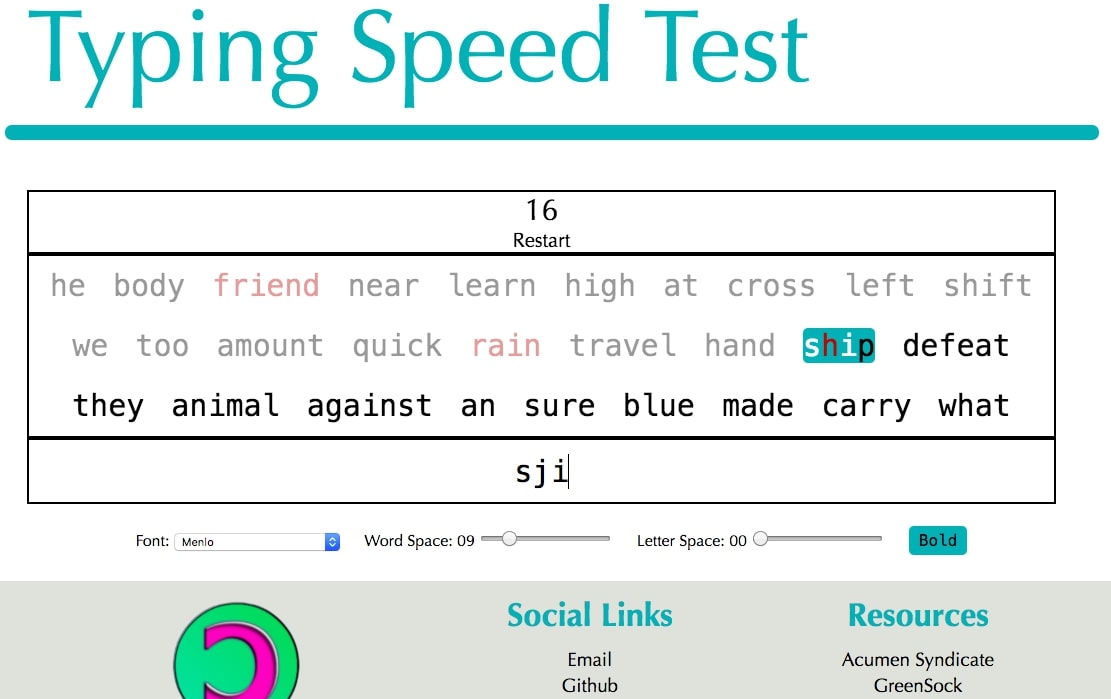
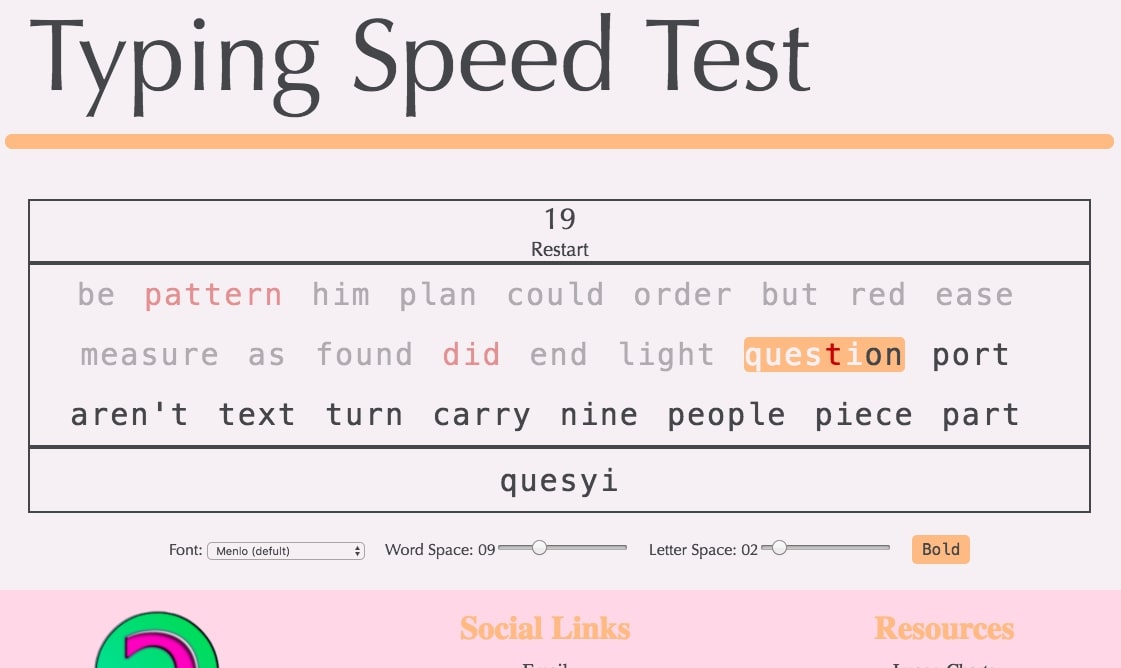
brand new colour scheme!

diff --git a/src/views/projects/TypingSpeedTest.vue b/src/views/projects/TypingSpeedTest.vue
@@ -56,7 +56,7 @@
     <div v-if="seconds < -1" id="graph">
       <p>Your CPM during the 60 seconds span</p>
       <div>
-        <img draggable="false" :src="`https://image-charts.com/chart?cht=lc&chd=t:${ graph }&chs=999x480&chco=00ADB5&chg=1,1&chds=a&chxt=x&chxl=0:|0|5|10|15|20|25|30|35|40|45|50|55|60|65|70&chls=3`" />
+        <img draggable="false" :src="`https://image-charts.com/chart?cht=lc&chd=t:${ graph }&chs=999x480&chco=ffbc8a&chg=1,1&chds=a&chxt=x&chxl=0:|0|5|10|15|20|25|30|35|40|45|50|55|60|65|70&chls=3`" />
       </div>
     </div>
 
@@ -497,7 +497,8 @@ export default {
 #top {
   user-select: none;
   text-align: center;
-  border: 2px solid black;
+  border: 2px solid #44464a;
+  border-radius: 8px 8px 0px 0px;
   font-family: optima;
   #timer {
     font-size: 30px;
@@ -507,7 +508,7 @@ export default {
     cursor: pointer;
     display: inline;
     &:hover {
-      color: #00adb5;
+      color: #ffbc8a;
     }
   }
   #subject {
@@ -516,7 +517,7 @@ export default {
   #wrong {
     visibility: hidden;
     font-size: 20px;
-    color: #b50800;
+    color: #ff2344;
   }
 }
 #random-words {
@@ -525,7 +526,7 @@ export default {
   font-size: 30px;
   line-height: 2;
   padding: 0px 10px;
-  border: 2px solid black;
+  border: 2px solid #44464a;
   overflow-wrap: break-word;
   height: 180px;
   overflow: hidden;
@@ -533,34 +534,27 @@ export default {
     word-spacing: 0px;
     letter-spacing: 0px;
     &#current-word {
-      background-color: #00adb5;
+      background-color: #ffbc8a;
       border-radius: 5px;
     }
-    &.correct {
+    &.correct, &.incorrect {
       opacity: 0.4;
     }
     &.incorrect {
-      color: #b50800;
-      opacity: 0.4;
+      color: #ff2344;
     }
     &.correct-letter {
-      color: white;
+      color: #f5f0f4;
       margin: 0px;
     }
     &.wrong-letter {
-      color: #b50800;
+      color: #ff2344;
       margin: 0px;
     }
   }
   div {
     display: inline-block;
     overflow-wrap: break-word;
-  }
-  a {
-    color: black;
-    &:hover {
-      color: #00adb5;
-    }
   }
 }
 #typing-box {
@@ -571,7 +565,8 @@ export default {
   word-spacing: 0px;
   letter-spacing: 0px;
   font-size: 30px;
-  border: 2px solid black;
+  border: 2px solid #44464a;
+  border-radius: 0px 0px 8px 8px;
   height: 60px;
   margin-bottom: 25px;
 }
@@ -588,7 +583,7 @@ export default {
   }
   #bold {
     display: inline;
-    background-color: #00adb5;
+    background-color: #ffbc8a;
     padding: 5px 10px;
     border-radius: 5px;
     cursor: pointer;
@@ -596,15 +591,14 @@ export default {
 }
 #graph {
   text-align: center;
+  margin-bottom: 20px;
   div {
     width: 860px;
     height: 480px;
     overflow: hidden;
     margin: auto;
-    img {
-      object-fit: none;
-      float: left;
-    }
+    border: 2px solid #44464a;
+    border-radius: 4px;
   }
 }
 

diff --git a/src/App.vue b/src/App.vue
@@ -88,9 +88,21 @@ export default {
 /* General Style */
 body {
   margin: 0px;
+  background-color: #f5f0f4;
+  color: #44464a;
 }
 #app {
   overflow-x: hidden;
+}
+input, textarea, select {
+  background-color: #f5f0f4;
+  color: #44464a;
+}
+a {
+  color: #44464a;
+  &:hover {
+    color: #ffbc8a;
+  }
 }
 
 /* Navigation Bar */
@@ -104,12 +116,13 @@ body {
   padding-left: 2vw;
   width: calc(15vw + 40px);
   height: 100vh;
-  background-color: #00adb5;
+  background-color: #ffbc8a;
   #ching,
   #chang {
     cursor: default;
     font-size: calc(22px + 2.4vw);
-    color: white;
+    font-weight: 600;
+    text-shadow: 3px 3px 30px #7f3c0a;
   }
   #ching {
     margin-top: 7vh;
@@ -123,10 +136,9 @@ body {
     text-decoration: none;
     display: block;
     font-size: calc(20px + 0.7vw);
-    color: white;
+    border-radius: 15px 0px 0px 15px;
     &:hover {
-      background-color: white;
-      color: black;
+      background-color: #44464a;
     }
   }
 }
@@ -139,7 +151,7 @@ body {
   margin-top: 20px;
   width: 60px;
   height: 60px;
-  background-color: #eeeeee;
+  background-color: #bbbbbb;
   border-radius: 15px;
   &:hover {
     opacity: 0.9;
@@ -164,13 +176,12 @@ body {
     user-select: none;
     cursor: default;
     font-size: calc(30px + 5vw);
-    color: #00adb5;
   }
   #line {
     margin: 15px 0px 50px calc((100vw - 15vw - 40px - 2vw) * -0.02);
     width: calc((100vw - 15vw - 40px - 2vw) * 0.96);
     height: 15px;
-    background-color: #00adb5;
+    background-color: #ffbc8a;
     border-radius: 20px;
   }
   p {
@@ -191,7 +202,7 @@ footer {
   width: calc(100vw - 15vw - 40px - 2vw + 20px);
   margin-left: calc(15vw + 40px + 2vw - 10px);
   padding: 20px 0px;
-  background-color: #e0e2db;
+  background-color: #ffdbe7;
   #copyright {
     text-align: center;
     width: calc(90px + 5vw);
@@ -212,20 +223,18 @@ footer {
     .title {
       text-align: center;
       cursor: default;
-      color: #00adb5;
+      color: #ffbc8a;
       font-size: calc(18px + 1vw);
       font-weight: 700;
       margin-bottom: 13px;
+      text-shadow: 2px 2px 3px #44464a;
     }
     .text {
       text-align: center;
       text-decoration: none;
-      color: black;
       font-size: calc(16px + 0.2vw);
       padding-bottom: 4px;
-    }
-    .text:hover {
-      color: #00adb5;
+      text-decoration: underline;
     }
   }
 }
@@ -240,6 +249,7 @@ footer {
       display: none;
     }
     a {
+      border-radius: 0px;
       padding-left: 30px;
     }
   }

diff --git a/src/views/Projects.vue b/src/views/Projects.vue
@@ -208,7 +208,7 @@ export default {
 }
 .card {
   user-select: none;
-  border-top: 4px solid #b50800;
+  border-top: 4px solid #3377a9;
   width: 279px;
   height: 368px;
   text-align: center;
@@ -216,22 +216,23 @@ export default {
   padding: 10px 16px 10px 10px;
   display: inline-block;
   text-decoration: none;
-  box-shadow: 0px 4px 6px 0px rgba(0, 0, 0, 0.3);
+  box-shadow: 0px 4px 6px rgba(0, 0, 0, 0.3);
   opacity: 0;
   transform: translateY(100px);
   .card-title {
     margin-top: 0px;
     font-size: 30px;
-    color: #00adb5;
+    color: #ffbc8a;
+    text-shadow: 1px 1px 3px #44464a;
   }
   .card-description {
     height: 88px;
     margin: -20px 0px 30px 0px;
     font-size: 18px;
-    color: black;
+    color: #44464a;
   }
   .card-img {
-    border: 3px dotted #00adb5;
+    border: 3px dotted #3377a9;
     width: 100%;
     height: 198px;
   }
@@ -241,7 +242,7 @@ export default {
     transform: translateY(0px);
     &:hover {
       transition-duration: 0.4s;
-      box-shadow: 0px 4px 16px 0px rgba(0, 0, 0, 0.9);
+      box-shadow: 0px 4px 16px rgba(0, 0, 0, 0.9);
       transform: translateY(-8px);
     }
   }

diff --git a/src/views/PhotoGallery.vue b/src/views/PhotoGallery.vue
@@ -22,7 +22,7 @@ export default {
   name: "PhotoGallery",
   data() {
     return {
-      standardRatio: 1050 / 529,
+      standardRatio: 1052.78 / 529.547,
       photos: [],
       index: 0,
       description: "The best wallpaper I've ever made. Accurately describes my life. Keep it lowkey though, I ain't want to go to no therapist."
@@ -247,23 +247,27 @@ div {
   width: calc(100% - 10px);
   height: calc(100% - 10px);
   display: none;
-  border: 5px solid #00adb5;
+  border: 5px solid #ffbc8a;
+  border-radius: 5px 5px 0px 0px;
 }
 #photos {
   text-align: center;
   width: 100%;
   user-select: none;
-  background: #00adb5;
+  background: #ffbc8a;
   margin-bottom: -5px;
+  border-radius: 4px 4px 0px 0px;
   #photo {
     width: calc(100% - 10px);
-    border: 5px solid #00adb5;
+    border: 5px solid #ffbc8a;
+    border-radius: 4px 4px 0px 0px;
   }
 }
 #description {
   text-align: center;
-  border: 5px solid #00adb5;
-  background: white;
+  border: 5px solid #ffbc8a;
+  border-radius: 0px 0px 4px 4px;
+  background: #f5f0f4;
   font-size: 25px;
   padding: 15px 5px;
   margin-bottom: 25px;

diff --git a/src/views/About.vue b/src/views/About.vue
@@ -115,12 +115,6 @@ export default {
 <style lang="scss" scoped>
 p {
   display: table;
-  a {
-    color: black;
-    &:hover {
-      color: #00adb5;
-    }
-  }
 }
 #charming {
   user-select: none;
@@ -151,7 +145,7 @@ p {
   float: right;
   text-align: center;
   text-decoration: none;
-  color: black;
+  color: #44464a;
   img {
     margin: auto;
     margin-bottom: 5px;

diff --git a/src/views/projects/FrozenCountdown.vue b/src/views/projects/FrozenCountdown.vue
@@ -144,6 +144,7 @@ export default {
   text-align: center;
   margin-top: calc(18vh - 30px);
   font-size: calc(20px + 2vw);
+  color: black;
 }
 
 @media (max-width: 750px) {

diff --git a/src/views/projects/WordCounter.vue b/src/views/projects/WordCounter.vue
@@ -242,11 +242,4 @@ export default {
     margin: 10px 0px;
   }
 }
-
-#hyperlink {
-  color: black;
-  &:hover {
-    color: #00adb5;
-  }
-}
 </style>
